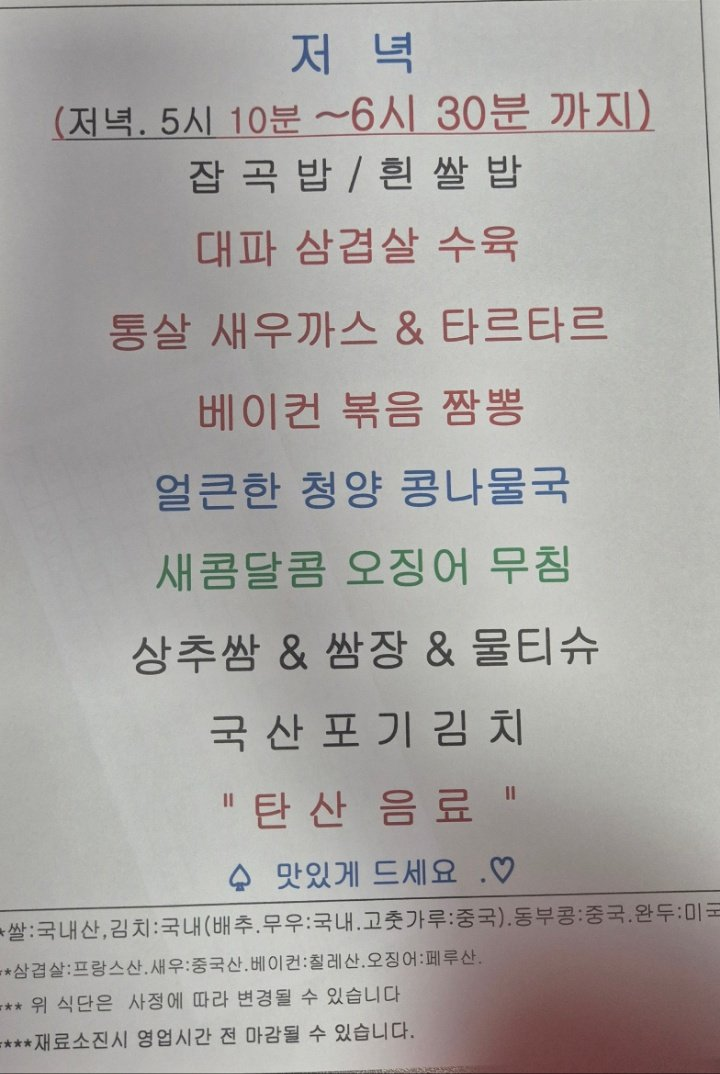
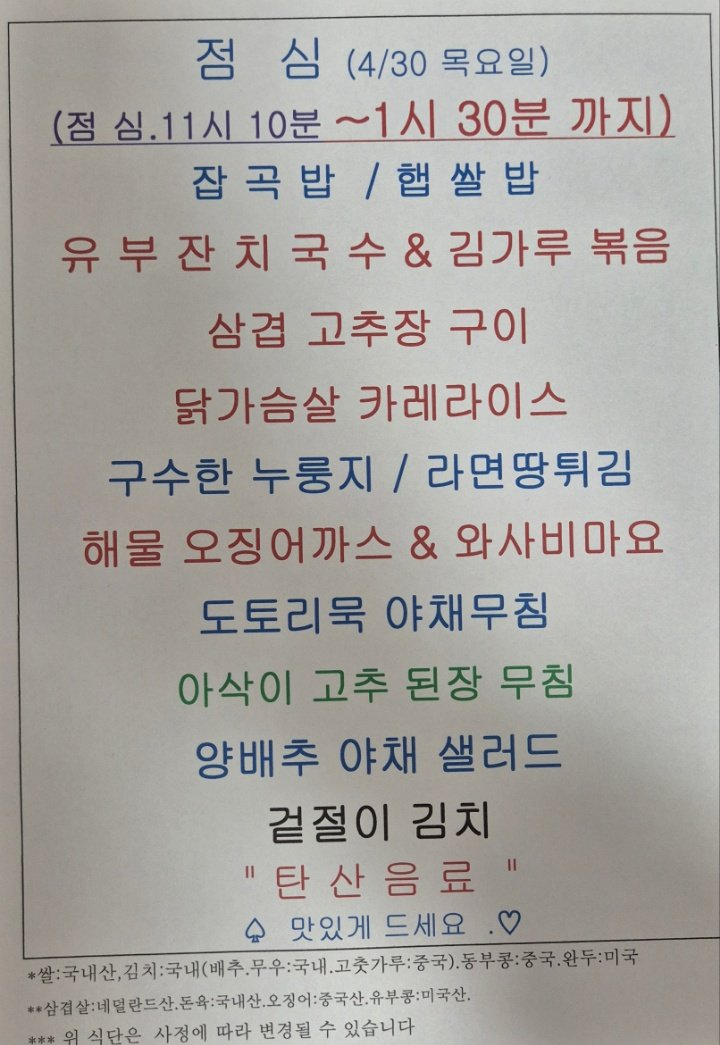
Update menu board assets

diff --git a/menu-today/index.html b/menu-today/index.html
@@ -244,7 +244,7 @@
 
     <section class="meta-bar">
       <div class="meta-card"><div class="meta-label">기준 날짜</div><div class="meta-value">2026년 4월 30일 목요일</div></div>
-      <div class="meta-card"><div class="meta-label">최종 가져온 시간</div><div class="meta-value">2026-04-30 09:18:06</div></div>
+      <div class="meta-card"><div class="meta-label">최종 가져온 시간</div><div class="meta-value">2026-04-30 09:32:40</div></div>
       <div class="meta-card"><div class="meta-label">확인 완료</div><div class="meta-value">10개 식당</div></div>
       <div class="meta-card"><div class="meta-label">준비중</div><div class="meta-value">3개 채널</div></div>
     </section>
@@ -310,7 +310,7 @@
           </div>
           <button class="badge image-button" type="button" data-image="./images/dipolis.png" data-title="디폴리스 구내식당">메뉴 이미지 확인</button>
         </div>
-        <ul><li>잡곡밥 / 흰쌀밥</li><li>태파 삼겹살 수육</li><li>뚜살 채우까스 &amp; 다르다르</li><li>베이컨 부음 eS</li><li>얼큰한 청양 콩나물국</li><li>새콤달콤 오징어 무침</li><li>상추쌈 &amp; 쌈장 &amp; 물티슈</li><li>ae 위 식단은 사정에 따라 변경될 수 있습니다</li><li>**깨료소진시 영업시간 전 마감될 수 있습니다</li><li>저 녁</li><li>고 반 / 흰쌀밥</li><li>새콤달콤 오징어 +a</li></ul>
+        <ul><li>유부잔치국수 &amp; 김가루볶음</li><li>aa 고추장 구이</li><li>닭가슴살 카레라이스</li><li>구수한 누룽지 / 라면땅튀김</li><li>해물 오징어까스 &amp; 와사비마요</li><li>도토리묵 야채무침</li><li>아삭고추된장무침</li><li>양배추 야채 샐러드</li><li>겉절이 김치</li><li>^ 맛있게 드세요 Y</li><li>을 국개산,김치:국내.동부콩:증국 월 미그</li><li>이 서단은 사정에 따라 변경될 수 있습니다</li><li>고 반 ee</li><li>유부잔치국수 &amp; 김가루부음</li></ul>
       </article>
 
       <article class="restaurant-card">
